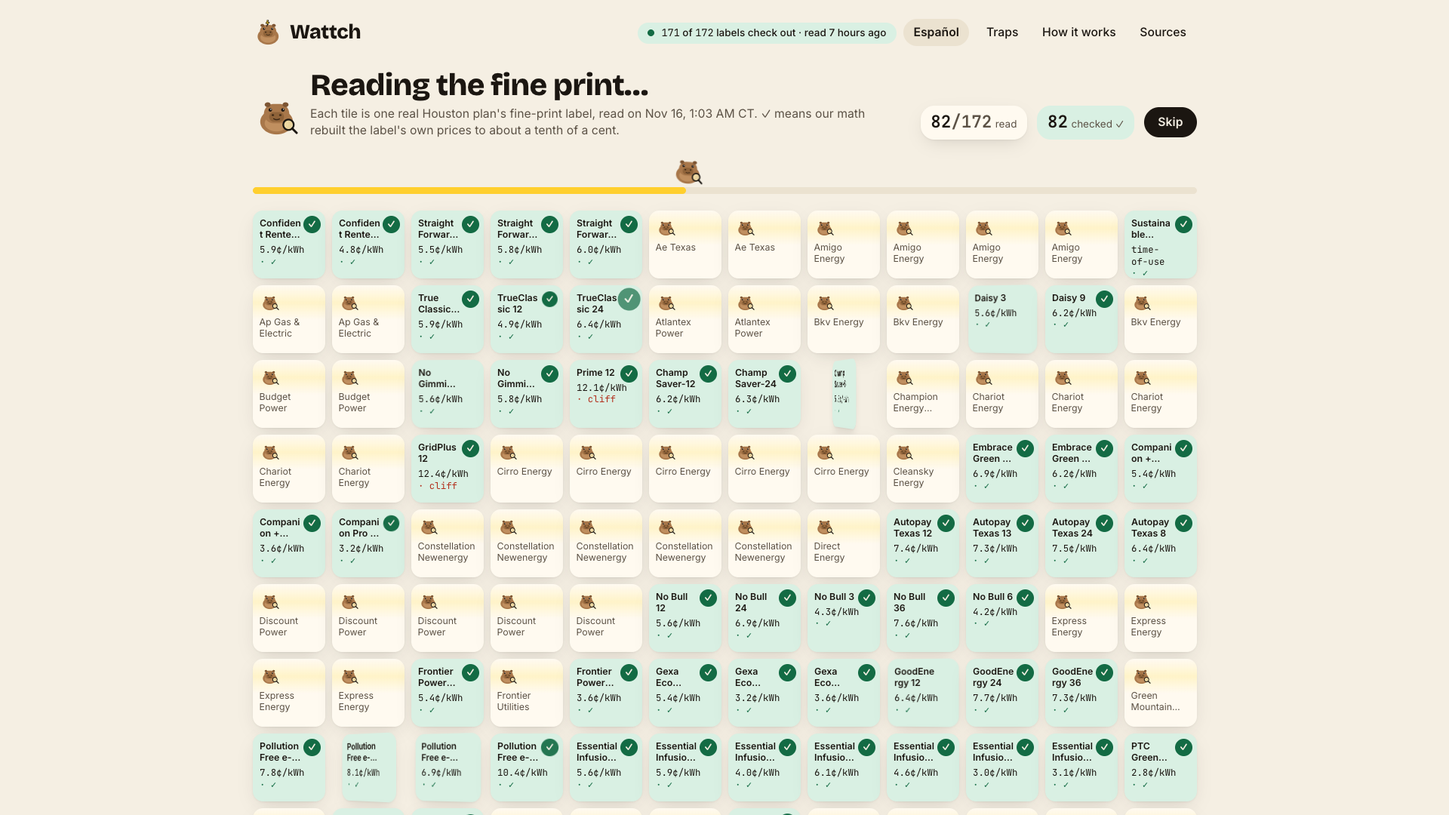
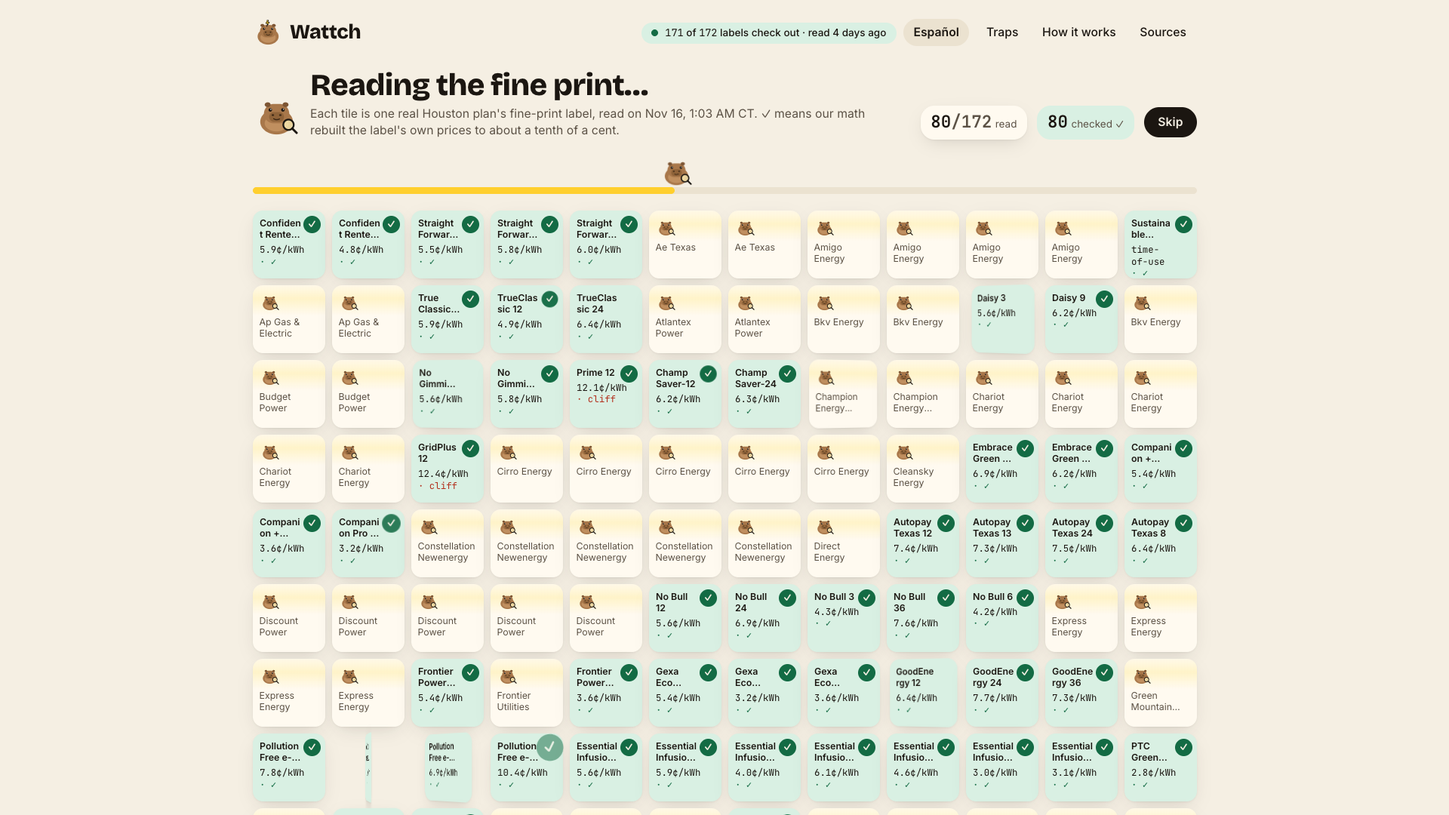
Final docs: SCRIPT, DEVPOST, DECK, SOURCES, JUDGE-QA, README dated to the Nov 16 list; gallery retaken (#69 of 143)

diff --git a/docs/SCRIPT.md b/docs/SCRIPT.md
@@ -1,9 +1,10 @@
 # Demo video script — Wattch (~5:00, hard cap 5:30)
 
-Draft v1 by Claude Code (overnight-2, Nov 16 2026). For Vedhanth to record in his own voice (ask before any AI voice).
+Final v2 by Claude Code (Nov 19 2026, prompts/final-1.md). For Vedhanth to record in his own voice (ask before any AI voice).
 Fits all three: Triple H (3–8 min, must demo the product, clear audio), STEM2Connect (≤6 min), GenHacks.
-Numbers are from `npx tsx scripts/headline.ts` (data built Nov 16 07:03 UTC). Re-run it before recording; if the data
-was refreshed, swap the numbers marked ⟲.
+Numbers are from `npx tsx scripts/headline.ts` (labels read Nov 16; plans that left Power to Choose by Nov 19 are marked
+and not ranked). Re-run it before recording; if the data was refreshed, swap the numbers marked ⟲.
+Backup clips for every row: docs/SHOTS.md (video/raw/, 1920×1080).
 
 **Setup before recording**
 - Chrome, 1920×1080, zoom 100%, bookmarks bar hidden, one tab. Open https://getwattch.vercel.app (or the overnight
@@ -13,11 +14,11 @@ was refreshed, swap the numbers marked ⟲.
 
 | # | Time | Screen + exact clicks | Narration (say this) |
 |---|---|---|---|
-| 1 | 0:00–0:25 | Home page, still. Slowly scroll so the "plans read / traps found" tiles show. | "In Houston you have to pick your own electricity plan. The state's website lists 172 ⟲ of them and sorts them by one number: the price if you use exactly 1,000 kilowatt-hours. I wanted to know if that number is real. So I built Wattch." |
+| 1 | 0:00–0:25 | Home page, still. Slowly scroll so the "plans read / traps found" tiles show. | "In Houston you have to pick your own electricity plan. The state's website lists more than 150 of them and sorts them by one number: the price if you use exactly 1,000 kilowatt-hours. I wanted to know if that number is real. So I built Wattch." |
 | 2 | 0:25–0:50 | Point at the rotating trap card on home; let it change once. | "The truth is in a PDF every plan has to publish, called the Electricity Facts Label. That's where the catches are: bill credits you only get above a certain usage, minimum-use fees, teaser prices that last three months. Wattch reads all of them." |
 | 3 | 0:50–1:10 | Usage picker → choose **Average home** (1,100 kWh — it's already selected by default). Click **Read every plan**. | "I'll say I'm a typical Houston home, about 1,100 kilowatt-hours a month, and press read every plan." |
 | 4 | 1:10–1:40 | /wall: the tiles stamp ✓ as Kapi walks across. Don't talk over the first 3 seconds — let it play. | "Every tile is one real plan. An AI model, Claude Haiku, reads each label. But I don't trust the AI. Texas makes every label print its own average price at three usages. My code rebuilds those three prices from what the AI read, and they have to match to about a tenth of a cent. 171 of 172 ⟲ check out. Only those get ranked." |
-| 5 | 1:40–2:20 | The reveal: let the $ count up. Pause on it. Point at the year bars. | "Here's the answer. The plan the state site puts first — Simple Saver 3, 6.2 cents ⟲ — ranks number 69 ⟲ out of 143 for this home, and costs **378 dollars more a year** ⟲ than the best plan. Why? Its 125-dollar credit only kicks in at 1,000 kilowatt-hours. Look at the bars: Houston summers clear the line, but six months ⟲ a year this home doesn't, so the credit never comes." |
+| 5 | 1:40–2:20 | The reveal: let the $ count up. Pause on it. Point at the year bars. | "Here's the answer. The plan the state site listed first when I read them — Simple Saver 3, 6.2 cents ⟲ — ranks number 69 ⟲ out of 143 for this home, and costs **378 dollars more a year** ⟲ than the best plan. Why? Its 125-dollar credit only kicks in at 1,000 kilowatt-hours. Look at the bars: Houston summers clear the line, but six months ⟲ a year this home doesn't, so the credit never comes." |
 | 6 | 2:20–2:35 | Toggle **Price locked 12+ months**. Point at the new number. | "Some cheap plans only lock the price for three months. If I only want prices locked for a year, the gap is still 208 dollars ⟲." Toggle it back off. |
 | 7 | 2:35–3:15 | Click the #1 plan → its plan page. Scroll to the label text. **Hover** the energy-charge bill line, then the credit line, so the numbers glow in the label. Scroll to the three-price check table. | "Every number is provable. This is the actual label text. When I hover a line of the bill, the exact number it came from lights up in the fine print. And here's the check: the label's own three prices next to the ones my code rebuilt. They match." |
 | 8 | 3:15–3:35 | Click **Check this label again now**. Wait for the answer. | "Prices change, so any plan Wattch has read can be re-checked live. Wattch downloads the label again right now and tells me if anything changed." |
@@ -26,9 +27,10 @@ was refreshed, swap the numbers marked ⟲.
 | 10b *(optional, +15 s)* | — | Home → in the form, tap **Dallas–Fort Worth (Oncor)**; the stats and trap card change. Click **Read every plan**, skip to the reveal. | "And it's not just Houston. The same code read every Dallas–Fort Worth plan too. There, that same 6.2-cent plan costs 530 dollars ⟲ more a year." |
 | 10c *(optional, +15 s)* | — | On the results page, scroll to the top and click **Español** in the header (top right). The page switches and stays at the top, so scroll down to the big number and point at "más al año". Scroll up and click **English** to switch back. | "And every page works in Spanish too. Same plans, same math, same check — just in the language you read best." |
 | 11 | 4:25–4:40 | Back to results → **Share my result** → show the card image. | "And every result is a link you can send someone, with your own number on it." |
-| 12 | 4:40–5:00 | Home page, still. | "Texas gave people the power to choose, but not the time to read 172 ⟲ labels. Wattch reads them, checks its own work, and shows what your plan really costs. AI reads, code decides. Thanks for watching." |
+| 12 | 4:40–5:00 | Home page, still. | "Texas gave people the power to choose, but not the time to read more than 150 labels. Wattch reads them, checks its own work, and shows what your plan really costs. AI reads, code decides. Thanks for watching." |
 
-Word count ≈ 640 → about 4:35 at 140 wpm, leaving ~25 s for pauses and the wall animation. Hard stop 5:30.
+Narration ≈ 455 words (rows 1–12, counted Nov 19) → about 3:15 of talking at 140 wpm. The rest of the 5:00 is the wall
+animation, the pause on the reveal, typing and scrolling — keep those pauses; don't rush to fill them. Hard stop 5:30.
 
 **Optional line for scene 7 (+10 s)** — scroll to "Ask yourself before you sign": "Under every bill line there's a
 sentence saying where it comes from, and the page writes questions from the plan's own fine print, like: will I use
@@ -38,13 +40,18 @@ Drop order if you run long: 10c first, then the scene-7 line, then 10b. (10c che
 "Español" at 1920 wide — on phones it's "ES" — and the Spanish reveal says "más al año"; switching lands at the top of the page, checked live; src/components/LangSwitch.tsx, src/lib/i18n.ts.)
 
 **If something breaks while recording**
-- /wall is slow → use /demo (same numbers, auto-plays, ← → keys) for scenes 4–6, and say "here's the walk-through".
+- /wall is slow → use /demo?speed=slow (same numbers, plays on its own at 10 s a scene, ← → keys, space pauses) for
+  scenes 4–6, and say "here's the walk-through". Or drop in the matching clip from docs/SHOTS.md.
 - Live re-check fails (provider site down) → it says so in plain words; say "the provider's site is down right now,
   which is exactly why Wattch keeps the last checked copy" and move on.
 
-**Checked against the code (Claude Code, Nov 16)**
+**Checked against the code (Claude Code, Nov 19)**
 172 / 171 / 143 / #69 / $378 / $125 / 1,000 kWh / 6 months: scripts/headline.ts at 1,100 kWh with seasons.
-6.2¢: plan 33633 `ptc.k1000`. $208 locked: PROGRESS.md B8 + count-shot (url kwh=1100&lock=1). 7 trap kinds: trapGuide.ts.
+6.2¢: plan 33633 `ptc.k1000` (Nov 16 list). $208 locked: seen in clip 06-locked-12 (Nov 19). Scene 9 "$378 … $150 … 5 months …
+Switch now": seen in clip 09-current-plan. Dallas $530 / #82 of 125: headline.ts + clip 10b-dallas. 7 trap kinds: trapGuide.ts.
+"More than 150": Power to Choose listed 172 Houston plans on Nov 16 and 157 on Nov 19 (scripts/delisted.ts, free).
+"Listed first when I read them": on Nov 19 the live site shows SimpleSaver 12 at 6.1¢ just ahead of Simple Saver 3 —
+so don't say "puts first" (present tense) unless the data is re-read. Dallas: Simple Saver 3 is still first live.
 Clicks (all found in the code): "Average home" (UsagePicker), "Read every plan" (UsagePicker), "Price locked 12+ months"
 (Wall), "Check this label again now" (LiveCheck), "Already on a plan" (CurrentPlan), "Share my result" (ShareButton),
 header "Traps" (layout). Still do one dry run on the live site before recording.

diff --git a/docs/DEVPOST.md b/docs/DEVPOST.md
@@ -1,8 +1,8 @@
 # Devpost submission — Wattch (Triple H · also STEM2Connect + GenHacks)
 
-Paste each section into the matching Devpost field. Draft v1 by Claude Code (overnight-2, Nov 16 2026) — for the planner
-and Vedhanth to edit. Solo "I" voice. Every number below comes from the repo (`npx tsx scripts/headline.ts`,
-data/plans.json built Nov 16 2026 07:03 UTC) or a source quoted in docs/SOURCES.md. If the data is re-read before
+Paste each section into the matching Devpost field. Final v2 by Claude Code (Nov 19 2026, prompts/final-1.md) — for the
+planner and Vedhanth to edit. Solo "I" voice. Every number below comes from the repo (`npx tsx scripts/headline.ts`,
+labels read Nov 16 2026; plans that left Power to Choose by Nov 19 are marked and not ranked) or a source quoted in docs/SOURCES.md. If the data is re-read before
 submitting, re-run headline.ts and update the numbers marked ⟲.
 
 ## Project name
@@ -12,8 +12,8 @@ Wattch
 Texas lets you pick your power plan, then hides the real price in the fine print. Wattch reads every Houston plan's label, checks its own work, and shows what each one really costs you.
 
 ## Inspiration
-In Houston you have to pick your own electricity plan. The state's site, Power to Choose, lists 172 ⟲ of them and shows
-one big number for each: the price if you use exactly 1,000 kWh. The catch is in a PDF called the Electricity Facts
+In Houston you have to pick your own electricity plan. The state's site, Power to Choose, listed 172 ⟲ of them when I read them and
+shows one big number for each: the price if you use exactly 1,000 kWh. The catch is in a PDF called the Electricity Facts
 Label. Many plans give a $100–$125 bill credit only in months you use more than 1,000 kWh. That makes the advertised
 price look amazing, and real homes don't use 1,000 kWh every month. Houston summers blow past it; spring and winter
 don't.
@@ -32,8 +32,8 @@ for a number that was never real.
 - **Your real year, not one number.** Pick your usage (or type your own 12 months from your bill). Wattch spreads it
   across a real Houston year using ERCOT's grid data — an August bill is about 2.6× a February one — and prices every
   plan month by month.
-- **The reveal.** For an average 1,100 kWh home, the plan with the lowest advertised price on Power to Choose (Simple
-  Saver 3, "6.2¢") ranks **#69 of 143** ⟲ and costs **$378 a year more** ⟲ than the best plan. Why: its $125 credit
+- **The reveal.** For an average 1,100 kWh home, the plan with the lowest advertised price on Power to Choose when Wattch
+  read the list (Simple Saver 3, "6.2¢") ranks **#69 of 143** ⟲ and costs **$378 a year more** ⟲ than the best plan. Why: its $125 credit
   needs 1,000 kWh, and that home is under 1,000 kWh six months a year. A bar chart shows exactly which months miss.
 - **Proof for every number.** Each plan page shows the label text the AI read with every number the math used
   highlighted. Hover a bill line and its number lights up in the fine print. A table shows the label's own three
@@ -73,9 +73,10 @@ for a number that was never real.
   are plain code with 265 tests ⟲, including a test that every verified plan still rebuilds its own label.
 - **Staying fresh:** `npm run refresh` downloads the state's list for free and shows what changed; `--apply`
   re-downloads every label and only sends the ones whose text changed to the AI. The Dallas read cost $1.15 for 172
-  labels, about 0.67¢ each.
+  labels, about 0.67¢ each. A free check (`scripts/delisted.ts`) marks plans that have left the state's list since
+  they were read: their page says so, and they're never ranked.
 - **Stack:** Next.js 16 + React 19 + TypeScript, Tailwind CSS, zod (validates the AI's output and the data file),
-  unpdf (PDF text), Vercel. Accessibility checked with axe (0 issues on 17 pages, phone and desktop) and Lighthouse
+  unpdf (PDF text), Vercel. Accessibility checked with axe (0 issues on 25 pages, phone and desktop) and Lighthouse
   (100 accessibility on every page I tested).
 
 ## Challenges I ran into
@@ -88,6 +89,9 @@ for a number that was never real.
   separates "new file" from "new prices".
 - **Seasons.** My first model used statewide Texas data. I replaced it with Houston-area grid data, which made the
   summer/spring gap bigger — and that's exactly where bill-credit plans hurt.
+- **The list moves.** Between Nov 16 and Nov 19, 12 Houston plans left Power to Choose and about 70 changed their
+  advertised price. A plan you can't sign up for shouldn't be anyone's #1, so Wattch now checks the list for free and
+  marks those plans instead of quietly ranking them.
 - **Being honest.** One prepaid plan's label prints prices its own charges don't add up to. Instead of forcing it, the
   plan page says exactly what doesn't match.
 
@@ -130,11 +134,11 @@ vercel · vitest · playwright · axe-core · power-to-choose · ercot-load-prof
 Retake with `node scripts/gallery.mjs` (or `node scripts/gallery.mjs 7,8` for just the new two) against a local prod build on :3000 if the data changes.
 
 ## Links
-- Live app: https://getwattch.vercel.app ⟲ (main — merge the overnight branch first if the planner approves)
+- Live app: https://getwattch.vercel.app
 - Code: https://github.com/Vedu-2011/wattch
 - Demo video: (add)
 
-## Checked against the code (Claude Code, Nov 16)
+## Checked against the code (Claude Code, Nov 19)
 172 plans / 171 verified / 143 ranked / #69 / $378 / 6 months / $125 / 1,000 kWh / 6.2¢: scripts/headline.ts.
 158 direct / 14 Anakin / median 3,707 ms: data/plans.json. 7 trap kinds: src/lib/trapGuide.ts. 2.6× Aug/Feb: docs/SOURCES.md.
 265 tests: `npm test`. axe 0 on 25 pages: scripts/axe.mjs. Lighthouse a11y 100 on /, /wall, /plan (D2) and /remind, /how,
@@ -143,4 +147,5 @@ Screen-reader links, heading levels and page language on 19 pages: scripts/link-
 Dallas (added later Nov 16): 172 plans / 154 verified / 125 ranked / #82 / $530: scripts/headline.ts; $1.149 read cost:
 PROGRESS.md (F2). Bill sentence "1,100 kWh × 6.5611¢": src/lib/bill/explain.ts on plan 33633. Questions "6 months, $750":
 src/lib/questions.test.ts.
-EnergyBot quote: docs/SOURCES.md (verified). NOT used: Peltier/Lieber $480 (couldn't find it).
+"12 left / about 70 re-priced": scripts/delisted.ts + `npx tsx scripts/refresh.ts` dry run, Nov 19 (Houston 12 gone, 76
+price changes; Dallas 13 gone, 68). EnergyBot quote: docs/SOURCES.md (verified). NOT used: Peltier/Lieber $480 (couldn't find it).

diff --git a/docs/DECK.md b/docs/DECK.md
@@ -1,6 +1,6 @@
 # Business-track deck — Wattch (≤15 slides)
 
-Draft v1 by Claude Code (overnight-2, Nov 16 2026) for the planner to turn into slides. Triple H business track asks
+Final v2 by Claude Code (Nov 19 2026, prompts/final-1.md) for the planner to turn into slides. 15 slides. Triple H business track asks
 for: executive summary, market opportunity, business model, the ask; presenter role-plays an executive.
 Rule: every number has a source in docs/SOURCES.md or comes from the repo. Anything marked **[CHECK]** is not yet
 sourced — don't put it on a slide until it is. ⟲ = changes when the plan data is refreshed.
@@ -16,13 +16,13 @@ Vedhanth M., Founder & CEO · Houston · getwattch.vercel.app
   that's only true at exactly 1,000 kWh a month.
 - Product: Wattch reads every plan's legally required fine-print label, checks its own reading against the label's
   printed prices, and ranks plans by what they cost over a real Houston year.
-- Proof: 171 of 172 ⟲ Houston plans verified. For an average home, the state site's #1 plan ranks #69 ⟲ and costs
-  $378 ⟲ a year more than the best.
+- Proof: 171 of 172 ⟲ Houston plans verified. For an average home, the plan the state site listed first (Nov 16) ranks #69 ⟲
+  of 143 and costs $378 ⟲ a year more than the best.
 - Model: free for families; revenue from switch referrals, shown openly and never used to rank.
 - Ask: (see slide 14).
 
 **3 · The problem, in one plan**
-Simple Saver 3: "6.2¢ ⟲ per kWh" on Power to Choose. The label: a $125 credit only in months above 1,000 kWh.
+Simple Saver 3: "6.2¢ ⟲ per kWh", first on Power to Choose's list when Wattch read it (Nov 16). The label: a $125 credit only in months above 1,000 kWh.
 A Houston home averaging 1,100 kWh misses it 6 months ⟲ a year → $1,712 ⟲ for the year vs $1,334 ⟲ for the best plan.
 Visual: the 12-month bars with the 1,000 kWh line (screenshot from /wall).
 Source: scripts/headline.ts; the plan's label (linked from /plan/33633).
@@ -34,8 +34,8 @@ Source: energybot.com/electricity-plan-study.html (quoted in SOURCES.md).
 
 **5 · How big the trap is in the data**
 17 ⟲ of the 143 ⟲ ranked Houston plans have a hidden catch that changes the price; 7 kinds of trap. Breakdown (plans can have more than one):
-3-month teaser 20 · autopay credit 15 · bill-credit cliff 12 · minimum-use fee 10 · time-of-use 9 · setup fee 6 · tiered 1 ⟲.
-Source: data/plans.json via /traps and src/lib/hero.ts (checked Nov 16). Wording matters: "17 plans with a trap that
+3-month teaser 20 · autopay credit 15 · bill-credit cliff 12 · minimum-use fee 9 · time-of-use 9 · setup fee 6 · tiered 1 ⟲.
+Source: data/plans.json via /traps and src/lib/hero.ts (checked Nov 19, plans that left the list excluded). Wording matters: "17 plans with a trap that
 makes them cost more than they look" = rankable plans with at least one red ("over") warning (hero.ts). The per-kind
 counts are bigger because they include softer catches (autopay credit, 3-month price) — say "catches", not "traps", for those.
 
@@ -86,6 +86,8 @@ Fill the [CHECK] cells only after opening each site and trying it; screenshot wh
 - Reading a whole area costs about $1.15 in AI (0.67¢ a label); unchanged labels cost $0 to re-check.
 - English + Spanish on every page (same math, only the words change); contract-end calendar reminders; 265 ⟲ automated tests.
 - Accessibility: 0 axe issues on 25 pages (English + Spanish); Lighthouse accessibility 100 on every page tested.
+- Stays current for free: a daily check of the state's list marks plans that have left it (12 in Houston between
+  Nov 16 and Nov 19) so they're never ranked.
 - Built and shipped solo in one week.
 (No users yet — say so honestly if asked.)
 
@@ -106,6 +108,6 @@ Houston nonprofit." Keep the number small and tied to concrete costs.
 "Texas gave families the power to choose. Wattch gives them the time back." · getwattch.vercel.app · QR to /demo.
 
 ---
-**Checked (Claude Code, Nov 16):** $378 / #69 / 143 / 172 / 171 / $1,712 / $1,334 / 6 months / $125 — headline.ts.
+**Checked (Claude Code, Nov 19):** $378 / #69 / 143 / 172 / 171 / $1,712 / $1,334 / 6 months / $125 — headline.ts.
 Trap counts — summary of /traps data (re-run before slides). 2,519,376 — 1,868,817 + 650,559 from SOURCES.md.
 1,117 kWh — SOURCES.md. $0.68 re-read — PROGRESS.md A1. 1% illustration: 2,519,376 × 1% × $378 = $9.52M.

diff --git a/README.md b/README.md
@@ -21,7 +21,7 @@ match within about a tenth of a cent (±0.11¢, since labels round to 0.1¢). Bi
 - **Your own 12 months** — type your usage from your bills instead of using an average.
 - **Filters** — price locked 12+ months, no bill-credit cliffs, 50%+ renewable, 4+ stars; autopay discounts on/off. Every setting lives in the URL.
 - **Already on a plan?** — switch-or-wait math with your plan's real early-exit fee.
-- **/compare** — two plans month by month. **/traps** — every kind of catch, each with a real plan. **/demo** — a click-free walk-through for presenting.
+- **/compare** — two plans month by month. **/traps** — every kind of catch, each with a real plan. **/demo** — a click-free walk-through for presenting (`?speed=slow` gives 10 s a scene for screen recording).
 - **Check this label again now** — re-downloads a label live and says whether the prices changed (on every plan Wattch has read).
 - **Share card + QR** for trying it on your own phone. Every link previews in its own language and city: a results link
   shows the gap, a plan link that plan's real yearly cost and rank, a compare link who saves how much (`/api/card`). Plan and compare pages have a Share button.
@@ -32,6 +32,8 @@ match within about a tenth of a cent (±0.11¢, since labels round to 0.1¢). Bi
 - **Spanish** — every page people use (home, wall incl. "Already on a plan?" and "Use my real 12 months", plan,
   compare, traps, /how, reminder + .ics, 404 and error pages, share card, live re-check messages). Label text and the
   AI's notes stay in English on purpose (marked `lang="en"`); plan and provider names stay as the label prints them.
+- **Plans that left the list** — a free check of the state's own export (`scripts/delisted.ts` → `data/delisted.json`)
+  marks plans that are no longer on Power to Choose: their page and link preview say so, and they're never ranked.
 - **/remind** — a calendar reminder (.ics) 30 days before your contract ends; nothing is stored.
 
 ## AI tools used
@@ -90,7 +92,10 @@ node scripts/link-names.mjs     # screen readers: no two same-name links going d
 node scripts/es-walk.mjs        # clicks through the Spanish site at 375 + 1440, flags English text + labels (app on :3000)
 node scripts/widths.mjs         # every page EN + ES at 320 + 1920: no sideways scroll or cut-off text (app on :3000)
 node scripts/shots.mjs <folder> # screenshots at 375 / 1440 / 1920 (needs the dev server and Google Chrome)
-node scripts/gallery.mjs        # the 6 Devpost gallery images, 1920×1080, into docs/gallery (app on :3000)
+node scripts/gallery.mjs        # the 8 Devpost gallery images, 1920×1080, into docs/gallery (app on :3000)
+node scripts/demo-flow.mjs      # the demo flow on iPhone + 1920 (home → reveal → plan → compare → Español → Dallas), docs/gallery-final
+node scripts/video-shots.mjs    # raw 1920×1080 clips for the demo video into video/raw (list: docs/SHOTS.md)
+npx tsx scripts/delisted.ts     # free: which read plans have left Power to Choose → data/delisted.json
 npx tsx scripts/rehash.ts       # free: re-download labels and fix stored hashes (no AI); lists labels that changed
 python3 -I scripts/profile_counts.py <xlsx> "<TDSP>" <zone> <out.csv>   # one utility's home counts from ERCOT's workbook
 ```

diff --git a/PROGRESS.md b/PROGRESS.md
@@ -309,3 +309,4 @@ person: Vercel's free build limit was hit at ~04:10 (production after "merge" li
 - 2026-11-19 22:30 PT · final-1 Part 1 DATA: no ANAKIN_API_KEY in .env.local → kept the Nov 16 data, no paid re-read. New free scripts/delisted.ts → data/delisted.json (checked Nov 19 22:24 PT): 12 Houston + 13 Dallas plans left Power to Choose (5 Abundance, 2 Cirro, Constellation, Direct, Discount Power, 2 Green Mountain, + True Power in Dallas). They keep their page with a plain EN/ES note ('No longer on Power to Choose…'), their link preview says so, compare notes them, and rankable() skips them. New headline: Houston state #1 ranks #69 of 143 (was #74 of 154), still $378; Dallas #82 of 125 (was #91 of 137), still $530; usage traps 17 / 13. Tests updated + delisted.test.ts; meta-check checks the preview. 265 tests. ⚠ For the planner: on today's live list Houston's lowest advertised plan is a NEW plan (SimpleSaver 12, 6.1¢) that Wattch hasn't read; Simple Saver 3 (6.2¢) is now 2nd. Dallas: Simple Saver 3 still 1st. ~70 price changes per area since Nov 16. $0.
 - 2026-11-19 22:43 PT · final-1 Part 2 items 1–2: /demo?speed=slow (10 s a scene; 6 s default; read in the browser so /demo stays prerendered). Results replay plays once per tab per city (sessionStorage; ?replay=1 forces it) so back/Español/sliders don't make you wait 9 s again. /favicon.ico → /icon.svg (was the only 404 in the flow). New scripts/demo-flow.mjs walks home→usage→reveal→plan→compare→Español→Dallas on iPhone 13 + 1920, 16 shots in docs/gallery-final/, 0 console errors, 0 4xx/5xx. tests 265, lint 0, build, check-all 5/5.
 - 2026-11-19 23:06 PT · CORRECTION to the 22:2x line: SimpleSaver 12 (33362) is NOT new — Wattch read it Nov 16 at 6.5¢ (verified); Power to Choose now lists it at 6.1¢, so on today's live site it sorts ahead of Simple Saver 3 (6.2¢) in Houston. Our headline uses the Nov 16 list (Simple Saver 3 first). Dallas: Simple Saver 3 still first live (6.2 vs 6.4). Planner decision needed on wording ('on Nov 16 the state site listed first…') or a re-read. Also item 3: scripts/video-shots.mjs → 15 clips in video/raw (1920×1080 webm+mp4, gitignored), listed in docs/SHOTS.md; uses Playwright's headless shell because desktop Chrome cut the frame at ~993 px.
+- 2026-11-19 23:09 PT · final-1 items 4–7: SCRIPT (final v2: 'listed first when I read them', 'more than 150', real word count 455 ≈ 3:15 talk + pauses, fallbacks → /demo?speed=slow + SHOTS.md), DEVPOST (final v2, 'list moves' challenge, delisted in How I built it, axe 25 pages, links), DECK (15 slides, Nov 16 qualifier, min-use fee 9), SOURCES (list changes Nov 16→19), JUDGE-QA Q23 (is it still #1?), README (delisted, speed=slow, new scripts). docs/gallery retaken (now #69 of 143 / #82). No 'we' in any of them. 265 tests.

diff --git a/docs/JUDGE-QA.md b/docs/JUDGE-QA.md
@@ -26,8 +26,8 @@ the labels whose text changed. Every plan Wattch has read also has "Check this l
 re-runs the check.
 
 **5. What's the headline, exactly?**
-An average home (1,100 kWh a month), with Houston's real seasons from ERCOT grid data: the plan Power to Choose lists first,
-Simple Saver 3 at "6.2¢", ranks #69 of 143 ⟲ and costs $378 a year more ⟲ than the best plan. Its $125 credit only applies in
+An average home (1,100 kWh a month), with Houston's real seasons from ERCOT grid data: the plan Power to Choose listed first when Wattch
+read it (Nov 16), Simple Saver 3 at "6.2¢", ranks #69 of 143 ⟲ and costs $378 a year more ⟲ than the best plan. Its $125 credit only applies in
 months at 1,000 kWh or more, so a normal home misses it 6 months a year. Dallas–Fort Worth: the same plan ranks #82 of 125 ⟲ and costs
 $530 more ⟲.
 
@@ -123,6 +123,13 @@ Seven, each found by code from the label's own numbers (src/lib/rank.ts `traps`)
 1,000 kWh or more), minimum-use fees, credits that need autopay or an extra, 3-month teaser prices, time-of-use pricing,
 tiered prices and setup fees. In Houston, 17 ⟲ of the 143 ranked plans have a usage trap (a credit cliff or minimum-use fee; Dallas:
 13 ⟲ of 125), the home page's count. The trap guide (/traps) shows a real plan for each kind and what it costs at three usages.
+
+**23. Is Simple Saver 3 still the state site's #1 today?**
+Honest answer: in Dallas–Fort Worth, yes. In Houston, prices moved after I read the labels on Nov 16: SimpleSaver 12 (same
+provider) dropped from 6.5¢ to 6.1¢ and now sits just above it. That's why I say "listed first when I read them". The
+point doesn't change: a plan sorted to the top by its 1,000 kWh price can cost a normal home hundreds more over a year,
+and Wattch shows it with the label's own numbers. Plans that leave the state's list are marked on their page and never
+ranked (checked free from the state's own export, docs/SOURCES.md).
 
 ---
 

diff --git a/docs/SOURCES.md b/docs/SOURCES.md
@@ -65,4 +65,11 @@ month partly reflects the month before; real homes vary (a home with gas heat ha
 
 ### Our own numbers are the headline anyway
 The strongest stat is ours and is reproducible from the repo (`npx tsx scripts/headline.ts`): at 1,100 kWh/month with Houston seasons,
-the plan Power to Choose lists first ranks #69 of 143 and costs $378/yr more than the best plan.
+the plan Power to Choose listed first on Nov 16 ranks #69 of 143 and costs $378/yr more than the best plan.
+
+### How the state's list changed (Nov 16 → Nov 19)
+Power to Choose's own CSV export (powertochoose.org/en-us/Plan/ExportToCsv), downloaded free on Nov 19 ~10:20 PM PT by
+`scripts/delisted.ts` and `npx tsx scripts/refresh.ts` (dry run, no AI): Houston 12 of 172 read plans gone, 76 advertised
+price changes; Dallas–Fort Worth 13 of 172 gone, 68 price changes. Gone plans: data/delisted.json. On that list Houston's
+lowest 1,000 kWh price is SimpleSaver 12 at 6.1¢ (Wattch read it at 6.5¢ on Nov 16), then Simple Saver 3 at 6.2¢;
+Dallas's lowest is still Simple Saver 3 at 6.2¢.
